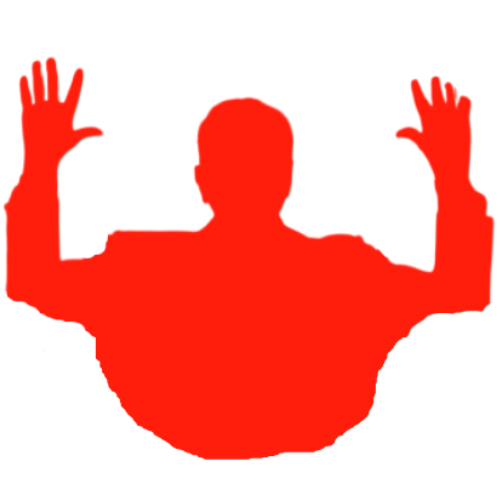
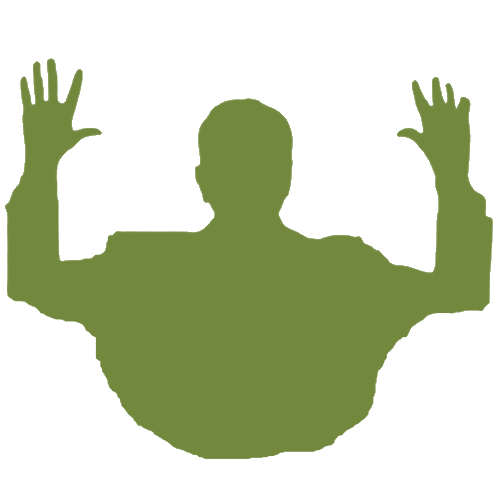
Ejercicio 2 terminado

diff --git a/repasoCSS/repaso_parte3/ejercicios/ej2/index.html b/repasoCSS/repaso_parte3/ejercicios/ej2/index.html
@@ -11,8 +11,8 @@
 
 <p>Párrafos 1, 2, 3, 4, 7, 8, 9, 10</p>
 <p>Párrafos 1, 2, 4, 7, 8, 9, 10</p>
-<p></p>
-<p></p>
+<p>Párrafos 1, 7, 8</p>
+<p>Párrafos 1, 2, 4, 7, 8, 9, 10</p>
 
 </body>
 </html>
